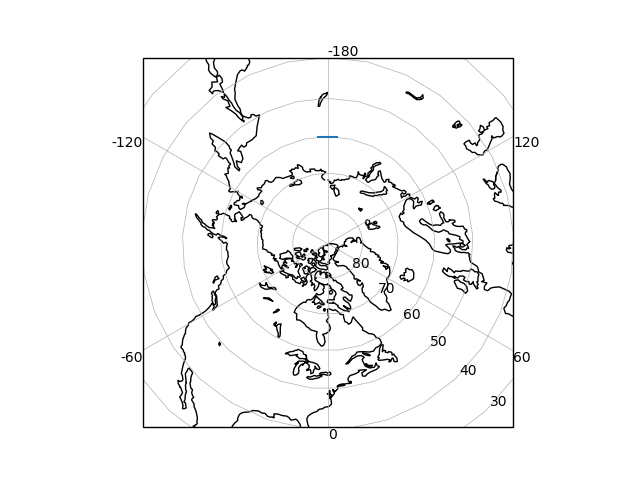
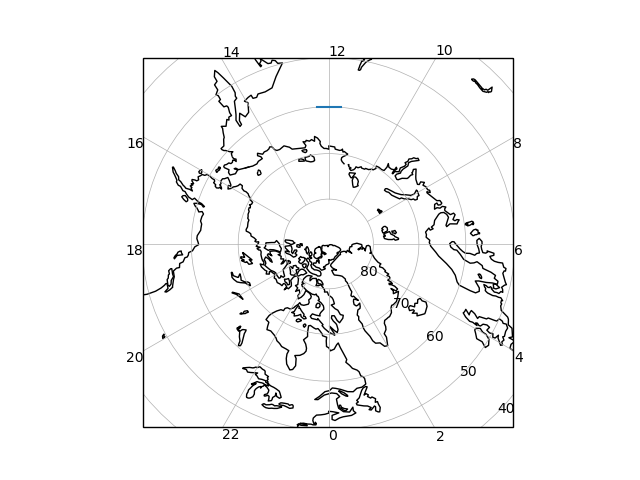
mlt plots

diff --git a/aacgm_carto.py b/aacgm_carto.py
@@ -39,7 +39,7 @@ class AxesAACGM(GeoAxes):
             self.coords = "aacgmv2"
             print("coords keyword not set, setting it to aacgmv2")
         # finally, initialize te GeoAxes object
-        GeoAxes.__init__(self, map_projection=map_projection,*args, **kwargs)
+        super().__init__(map_projection=map_projection,*args, **kwargs)
 
     def overaly_coast_lakes(self, resolution='110m', color='black', **kwargs):
         """
@@ -93,8 +93,13 @@ class AxesAACGM(GeoAxes):
                     if numpy.isnan(_mc[0]):
                         continue 
                     mlon_check_jump_list.append( _mc[1] )
-
-                    mag_list.append( (_mc[1], _mc[0]) )
+                    if self.coords == "aacgmv2":
+                        mag_list.append( (_mc[1], _mc[0]) )
+                    else:
+                        if _mc[2]*15. > 180.:
+                            mag_list.append( (_mc[2]*15.-360., _mc[0]) )
+                        else:
+                            mag_list.append( (_mc[2]*15., _mc[0]) )
                 # check for unwanted jumps
                 mlon_check_jump_list = numpy.array( mlon_check_jump_list )
 
@@ -121,6 +126,7 @@ class AxesAACGM(GeoAxes):
         #             print(split_mag_list)
                     if len(split_mag_list) > 1:
                         new_i.append( tuple(split_mag_list) )
+
         aacgm_coast = MultiLineString( new_i )
         return aacgm_coast
 
@@ -168,7 +174,6 @@ class AxesAACGM(GeoAxes):
         else:
             if not isinstance(lon_arr, numpy.ndarray):
                 raise TypeError('lat_arr must either be a list or numpy array')
-
         # get the boundaries
         [x1, y1], [x2, y2] = self.viewLim.get_points()
         bound_lim_arr = []
@@ -220,8 +225,11 @@ class AxesAACGM(GeoAxes):
             else:
                 ha = 'right'
                 va = 'top'
-            self.text( locs.bounds[0],locs.bounds[1], str(t), ha=ha, va=va)
-
+            if self.coords == "aacgmv2_mlt":
+                marker_text = str(int(t/15.))
+            else:
+                marker_text = str(t)
+            self.text( locs.bounds[0],locs.bounds[1], marker_text, ha=ha, va=va)
 
         
 # Now register the projection with matplotlib so the user can select
@@ -230,16 +238,18 @@ register_projection(AxesAACGM)
 
 if __name__ == "__main__":
     import matplotlib.pyplot as plt
+    import matplotlib.ticker as mticker
     import datetime
     import cartopy
+    from cartopy.mpl.gridliner import LONGITUDE_FORMATTER, LATITUDE_FORMATTER
     import numpy
 
-    plot_date = datetime.datetime(2015,1,1)
+    plot_date = datetime.datetime(2015,1,1,4)
     fig = plt.figure()
     ax = fig.add_subplot(
                 projection='aacgmv2',\
                 map_projection = cartopy.crs.NorthPolarStereo(),\
-                coords="aacgmv2", plot_date=plot_date
+                coords="aacgmv2_mlt", plot_date=plot_date
                 )
     # uncomment lines below to add coastlines and lakes individually
     # ax.coastlines()
@@ -247,12 +257,22 @@ if __name__ == "__main__":
     # or add coastlines and lakes together!
     ax.overaly_coast_lakes()
     # plot set the map bounds
-    ax.set_extent([-180, 180, 40, 90], crs=cartopy.crs.PlateCarree())
+    ax.set_extent([-180, 180, 50, 90], crs=cartopy.crs.PlateCarree())
     # plot a random line!
     # ax.scatter(54, 60, transform=cartopy.crs.Geodetic())
     ax.plot( [-175, 175], [60,60], transform=cartopy.crs.Geodetic() )
     # overaly gridlines!
-    ax.gridlines(linewidth=0.5)
-    ax.mark_latitudes(numpy.arange(20,90,10), fontsize=10)
-    ax.mark_longitudes(fontsize=10)
+    # the example here is for plotting gridlines
+    plt_lons = numpy.arange( 0, 361, 30 )
+    mark_lons = numpy.arange( 0, 360, 30 )
+    plt_lats = numpy.arange(30,90,10)
+    gl = ax.gridlines(crs=cartopy.crs.Geodetic(), linewidth=0.5)
+    gl.xlocator = mticker.FixedLocator(plt_lons)
+    gl.ylocator = mticker.FixedLocator(plt_lats)
+    gl.xformatter = LONGITUDE_FORMATTER
+    gl.yformatter = LATITUDE_FORMATTER
+    gl.n_steps = 90
+    # mark the longitudes
+    ax.mark_latitudes(plt_lats, fontsize=10)
+    ax.mark_longitudes(lon_arr=mark_lons, fontsize=10)
     plt.savefig("test_plots/carto_test.png")
